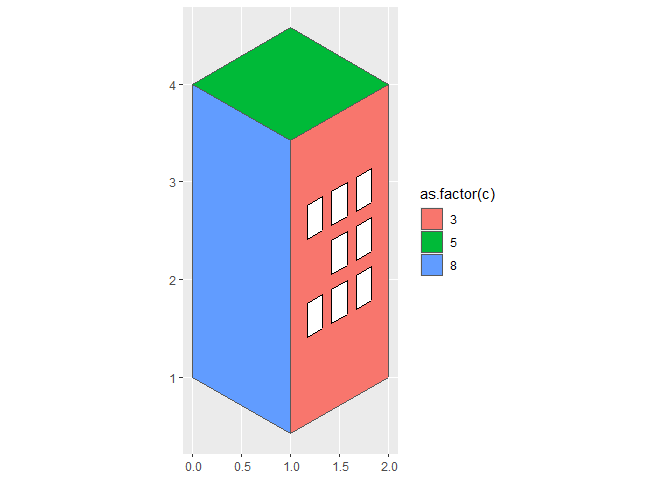
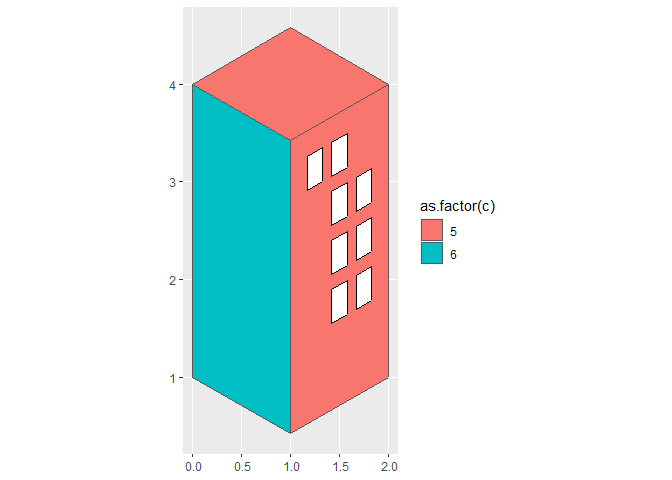
New outputs

Changed region(s): [[0.2812, 0.0625, 0.5938, 0.9062], [0.625, 0.375, 0.75, 0.5938]]

diff --git a/README.md b/README.md
@@ -396,7 +396,7 @@ if(edition=="MexBrewer"){
   
 }else{
   # Randomly select a color palette (MetBrewer Edition)
-  palette_name <- sample(c("Austria", "Cassatt1", "Cassatt2", "Cross", "Degas", "Derain", "Egypt", "Gauguin", "Greek", "Hiroshige", "Hokusai1", "Hokusai2", "Hokusai3", "Homer1", "Homer2", "Ingres", "Isfahan1", "Isfahan2", "Juarez", "Klimt", "Lakota", "Manet", "Monet", "Moreau", "Morgenstern", "Nattier", "Navajo", "NewKingdom", "Nizami", "OKeeffe1", "OKeeffe2", "Peru1", "Peru2", "Pillement", "Pissaro", "Redon", "Renoir", "Robert", "Signac", "Stevens", "Tara", "Thomas", "Tiepolo", "Troy", "Tsimshian", "VanGogh1", "VanGogh2", 'VanGogh3', "Veronese", "Wissing"), 1)
+  palette_name <- sample(c("Archaumbault", "Austria", "Benedictus", "Cassatt1", "Cassatt2", "Cross", "Degas", "Demuth", "Derain", "Egypt", "Gauguin", "Greek", "Hiroshige", "Hokusai1", "Hokusai2", "Hokusai3", "Homer1", "Homer2", "Ingres", "Isfahan1", "Isfahan2", "Java", "Johnson", "Juarez", "Kandinsky", "Klimt", "Lakota", "Manet", "Monet", "Moreau", "Morgenstern", "Nattier", "Navajo", "NewKingdom", "Nizami", "OKeeffe1", "OKeeffe2", "Paquin", "Peru1", "Peru2", "Pillement", "Pissaro", "Redon", "Renoir", "Robert", "Signac", "Tam", "Tara", "Thomas", "Tiepolo", "Troy", "Tsimshian", "VanGogh1", "VanGogh2", 'VanGogh3', "Veronese", "Wissing"), 1)
   col_palette <- met.brewer(palette_name, n = max(clipped_towers$c))
 }
 
@@ -449,4 +449,4 @@ ggsave(glue("outputs/skyline-{seed}.png"),
 #> Saving 7 x 8 in image
 ```
 
-![](outputs/skyline-742027.png)<!-- -->
+<img src="outputs/skyline-605055.png" width="2100" />
